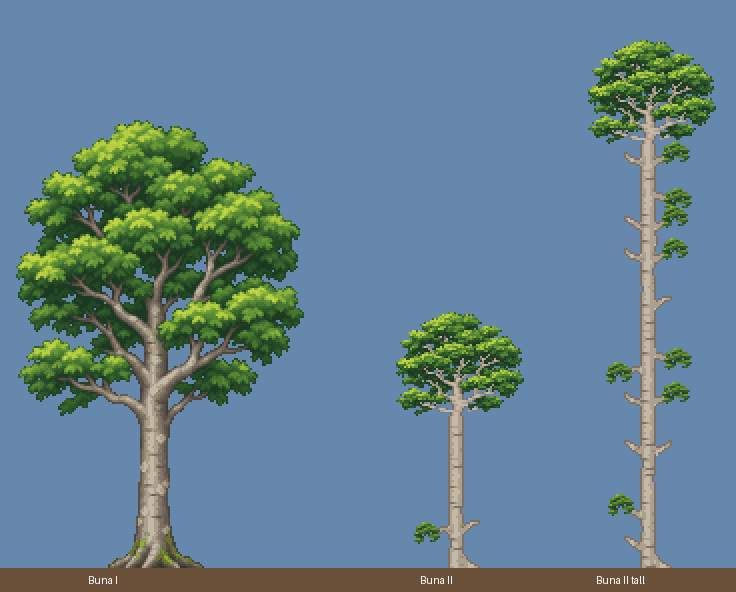
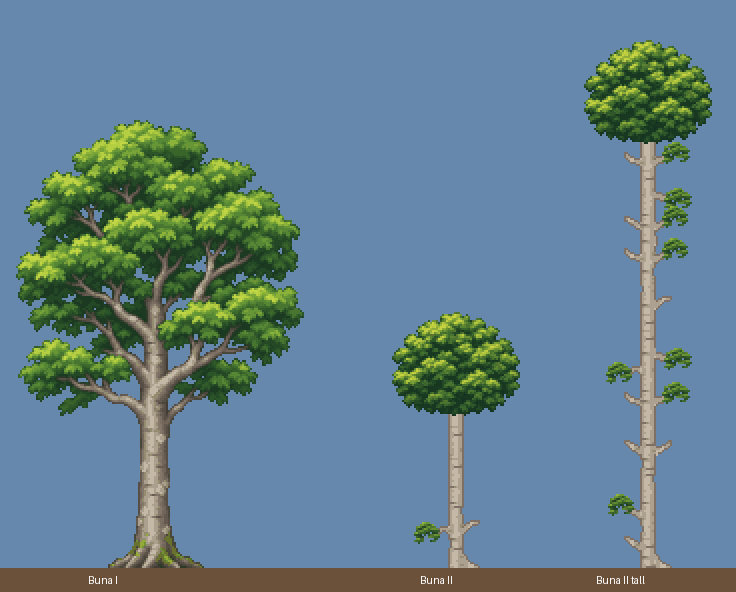
Hide Buna II crown wood beneath dense vanilla-like foliage

Changed region(s): [[0.7812, 0.0608, 0.9688, 0.2432], [0.5312, 0.5169, 0.7188, 0.6993]]

diff --git a/tools/build_buna_joints.py b/tools/build_buna_joints.py
@@ -1,7 +1,7 @@
 """Derive V2 connected components from the accepted whole Buna and native joints."""
 from pathlib import Path
 from collections import deque
-import json
+import json,sys
 from PIL import Image,ImageFilter
 root=Path(__file__).resolve().parents[1];assets=root/'Assets/Grove';art=root/'tools/art/buna-classic'
 stem=Image.open(assets/'BunaClassic.png').convert('RGBA')
@@ -77,10 +77,19 @@ while True:
   wood.putpixel(found,255);found=previous[found]
 assert flood({(x,y) for y in range(56) for x in range(68) if wood.getpixel((x,y))},[(34,55)])=={(x,y) for y in range(56) for x in range(68) if wood.getpixel((x,y))}, 'broken bare crown'
 crownwood=shade(wood);crownwood.paste(Image.frombytes('RGBA',(8,1),bytes(c for p in profile for c in p)),(30,55))
-crown=crownwood.copy();crown.alpha_composite(leaves)
-# The socket is part of this common master before splitting into game sprites.
+# The leafy mass occludes the crown anatomy, as in vanilla forest trees.
 crownwood=crownwood.resize((136,112),Image.Resampling.NEAREST)
-crown=crown.resize((136,112),Image.Resampling.NEAREST)
+dense=Image.open(sys.argv[1]).convert('RGBA')
+assert dense.size==(128,104)
+leaflayer=Image.new('RGBA',(136,112));leaflayer.paste(dense,(4,0))
+crown=Image.new('RGBA',(136,112))
+for y in range(112):
+ for x in range(136):
+  if leaflayer.getpixel((x,y))[3]:crown.putpixel((x,y),crownwood.getpixel((x,y)))
+# Native stem rises behind the leaves; only a short base is visible below them.
+row=Image.frombytes('RGBA',(8,1),bytes(c for p in profile for c in p)).resize((16,2),Image.Resampling.NEAREST)
+for y in range(76,112,2):crown.paste(row,(60,y))
+crown.alpha_composite(leaflayer)
 out=Image.new('RGBA',(138,114));out.paste(crown,(0,0));out.save(assets/'BunaClassic_Tops.png')
 
 # Small foliage cut from the SAME accepted whole image, with wood excluded.
@@ -153,4 +162,4 @@ for style in range(3):
   plate.alpha_composite(node,(224+style*128,side*128+8))
 plate.resize((1232,576),Image.Resampling.NEAREST).save(art/'wood-joints.png')
 metadata=json.loads((art/'layout.json').read_text());metadata['crown']=[136,112];metadata['crownAnchor']=[68,112];metadata['branchStyles']=['native0','native1','native2'];(art/'layout.json').write_text(json.dumps(metadata,indent=2)+'\n')
-print('Wood-first Buna II: shared stem nodes, three directional arms, crown cut from accepted whole tree')
+print('Buna II: unchanged shared branch nodes, dense foliage hides the crown wood')

diff --git a/tools/check_buna_classic.py b/tools/check_buna_classic.py
@@ -53,6 +53,10 @@ for side in range(2):
 crown=parts['BunaClassic_Tops']
 for y in range(104,112):
  assert all(crown.getpixel((x,y))[3]==255 for x in range(60,76)), 'narrow crown neck'
+# The canopy conceals the fork: visible stem is restricted to its short base.
+woodcolors={p[:3] for p in stem.get_flattened_data() if p[3]}
+visiblewood=[(x,y) for y in range(112) for x in range(136) if crown.getpixel((x,y))[3] and crown.getpixel((x,y))[:3] in woodcolors]
+assert visiblewood and all(60<=x<76 and y>=96 for x,y in visiblewood),'exposed fork above foliage'
 for fy in (0,22,44):
  assert [crown.getpixel((x,111)) for x in range(60,76)]==[stem.getpixel((x,fy)) for x in range(2,18)],'stem/crown edge palette mismatch'
 fixture=json.loads((ROOT/'tools/art/buna-classic/native-fixture.json').read_text());floor=fixture['floor']

diff --git a/README.md b/README.md
@@ -725,3 +725,16 @@ C# сборка без предупреждений и ошибок; это не
 направлений веток, размеров, размещения обоих вариантов, рубки отдельной
 ветки, восстановления и сохранения привязок. Графический клиент ещё нужно
 проверить. Прежнее предупреждение маленькой иконки при упаковке не менялось.
+
+## 0.4.34 — плотная верхушка Буны II
+
+По запросу пользователя ствол уходит внутрь плотной округлой листвы, как
+у ванильного лесного дерева. Большая открытая развилка закрыта листьями;
+снаружи видно только короткое основание. Новый источник содержит только
+листву. Боковые ветки, ствол Буны II и Буна I не изменены. Размеры кадров,
+сохранения и игровая логика прежние. Проверки не допускают открытую древесину
+выше входа ствола в листву, сохраняют совпадение кромок и сетку 2x2.
+
+Упаковка 0.4.34 успешна (прежнее предупреждение маленькой иконки без изменений).
+Проверки изображений и контактов проходят; проверка в графическом клиенте
+ещё нужна. C# и игровые механики в этой правке не менялись.

diff --git a/tools/art/buna-classic/README.md b/tools/art/buna-classic/README.md
@@ -1,4 +1,4 @@
-# Buna II — shared wood/leaf component masters (0.4.33)
+# Buna II — shared branch nodes and dense leafy crown (0.4.34)
 
 The user keeps Buna I and the accepted 16px Buna II stem, but requests coherent
 branches/crown built from that stem rather than adjusted independent pictures.
@@ -33,3 +33,11 @@ six arm forms, exact child-frame overlap, crown seam and actual native fixture
 contacts. It renders comparison.png and neck-closeup.png. wood-joints.png shows
 the connected wood before leaf composition. Static review is complete; review
 in the graphical game client remains pending.
+
+In 0.4.34 the user accepts the boughs and requests vanilla-like occlusion at the
+top: the stem enters a dense rounded leafy mass and the large fork is hidden.
+dense-leaves-source.png is a new foliage-only source referencing approved Buna I.
+The shell builder prepares a 128x104 leaf layer inside the unchanged 136x112
+crown frame. Wood is behind it; visible wood is limited to the short central
+stem base. The original stem/branches/V1 are byte-identical. Tests explicitly
+reject exposed wood above the lower stem-entry area. No C# or gameplay change.

diff --git a/AGENTS.md b/AGENTS.md
@@ -80,3 +80,9 @@ BunaClassic*.png используют родную геометрию кадро
 Родное крепление ветки и нижние 8px верхушки закреплены при ветре.
 Проверять все 6 кадров без листвы (wood-joints.png), связность древесины,
 точное совпадение интерфейсов и вид целого дерева. Буна I и ствол неизменны.
+
+В 0.4.34 пользователь принял боковые ветки и попросил плотную верхушку
+как в ванильной Terraria: ствол уходит в листву, открытой развилки не видно.
+Новый dense-leaves-source.png даёт плотную округлую лиственную массу поверх
+древесины. Видим только короткий ствол у нижнего края. Боковые ветки, ствол
+и Буна I не меняются. В проверках запрещать видимую древесину выше основания.
